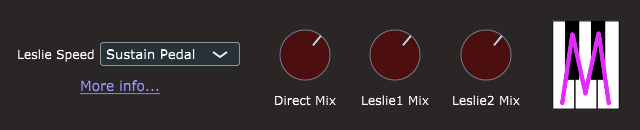
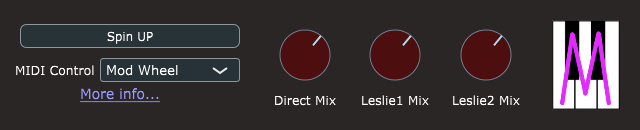
Update all documentation for version 1.1

diff --git a/docs/morgan-perc.md b/docs/morgan-perc.md
@@ -1,23 +1,38 @@
 # MOrgan Perc - MIDI Percussion processor
 
-**MOrgan Perc** (percussion) is an MIDI-effect plug-in, which takes MIDI input and produces output MIDI, but no audio output. Its purpose is to trigger any downstream instrument plug-in to produce notes in a manner reminiscent of the Hammond "percussion" circuit.
+**MOrgan Perc** (percussion) is an MIDI-effect plug-in, which takes MIDI input and produces output MIDI, but no audio output. Its purpose is to trigger any downstream instrument plug-in to produce notes in a manner reminiscent of the Hammond "key click" and "percussion" functions.
 
 ![](img/morgan-perc.png)
 
-The classic Hammond organs incorporated a "percussion" circuit, which was a type of one-shot oscillator triggered by pressing one or more keys following an all-keys-up condition. When triggered, the circuit produced an output voltage which began at its maximum value, and quickly decayed to zero. This voltage controlled the value of a percussive click sound generated for each key which was depressed. The resulting effect was that the percussion click was *polyphonic* (one click would be heard for each of several keys depressed roughly simultaneously), but *mono-triggered* (once triggered by the first key down, the output voltage would quickly decay to zero, so the click volume for subsequent keys would rapidly drop). Practically, this meant that the percussion clicks would only be heard for the first note or chord struck, and no further clicks would sound for as long as at least one key was held down.
+The first version of **MOrgan Perc** was specialized only for the "Hammond Perc" effect, but feedback from sound-designer [John Lehmkuhl](https://www.pluginguru.com/about/) suggested that the current three trigger-modes (described below) would yield a more useful and comprehensible effect.
 
-The **MOrgan Perc** plug-in uses MIDI Processing to roughly model this peculiar behavior. It has an internal one-shot oscillator using a wave-table filled with an exponential-decay curve (as shown by the green graph trace in the GUI). This oscillator is triggered only by the first MIDI key-down event following an all-keys-up condition, and its output rapidly decays from unity (1.0) to zero. MIDI key-down events received by the plug-in will be allowed through to the output only for the duration of the oscillator cycle (called *Gate Time*), and their MIDI velocity value will be scaled by its instantaneous output value.
+### Detailed functional description
 
-**MOrgan Perc** will most commonly be routed in front of a synthesizer plug-in configured to produce a short "pluck" or click-like sound which does not sustain. It is advisable to also use a MIDI filter plug-in to suppress MIDI CC#64 (sustain pedal) events to the synthesizer.
+The most basic effect of the **MOrgan Perc** plug-in is to trigger precisely-timed MIDI note-on/note-off event pairs at the output, in response to note-on events received at the input. This triggering can be done in three different ways, according to the setting of the pop-up menu, as follows:
+
+**Polyphonic** triggering simply means that *every* input note-on event gives rise to a note-on/note-off pair. The input note-on event is simply propagated to the output, so the note velocity is as played. This is useful for "key click" effects.
+
+With **Simple Mono** triggering, *only the first input note-on* triggers a timed output note. For as long as *at least one key is held down*, further note-triggering will be suppressed. This is a simplification of the classic Hammond-organ "percussion" response, where the goal was to emphasize only the first note of legato runs or arpeggiated chords.
+
+**Hammond Perc** triggering provides more realistic modeling of the the classic Hammond "percussion" effect. These organs featured a "percussion" circuit, which was a type of one-shot oscillator triggered by pressing one or more keys following an all-keys-up condition. When triggered, the circuit produced an output voltage which began at its maximum value, and quickly decayed to zero. This voltage controlled the value of a percussive click sound generated for each key which was depressed. The resulting effect was that the percussion click was *polyphonic* (one click would be heard for each of several keys depressed roughly simultaneously), but *mono-triggered* (once triggered by the first key down, the output voltage would quickly decay to zero, so the click volume for subsequent keys would rapidly drop). Practically, this meant that the percussion clicks would only be heard for the first note or chord struck, and no further clicks would sound for as long as at least one key was held down.
+
+**MOrgan Perc** models this very specific behavior. It has an internal one-shot oscillator using a wave-table filled with an exponential-decay curve (as shown by the green graph trace in the GUI). This oscillator is triggered only by the first MIDI key-down event following an all-keys-up condition, and its output rapidly decays from unity (1.0) to zero. MIDI key-down events received by the plug-in will be allowed through to the output only for the duration of the oscillator cycle (called the *Window*), and their MIDI velocity value will be scaled by its instantaneous output value.
+
+**MOrgan Perc** will most commonly be routed to filter the MIDI stream to a synthesizer plug-in configured to produce a short "pluck" or click-like sound, but as it produces output note-on/note-off sequences, even sustaining sounds can be used.
 
 ## Graphical User Interface
 
-The **MOrgan Perc** GUI is shown above. It consists of two *timing knobs* and a *graph display*.
+The **MOrgan Perc** GUI is shown above. It consists of a **Note Length** knob (which always controls how much later, in milliseconds, each generated note-off event occurs after the corresponding note-on), and a cluster of *triggering controls* in the middle:
+
+<img src="img/morgan-perc-2.png" style="zoom:150%;" />
+
+
+The triggering cluster consists of a consists of a pop-up menu to select one of the three *trigger modes* described above, and two *timing knobs* and a *graph display*, which are visible only in the "Hammond Perc" mode.
 
 #### Timing knobs
 
-- The **Gate Time** knob controls the internal one-shot oscillator's cycle time. It is calibrated in milliseconds, with a range of 50 to 250 msec, and a default value of 150 msec.
-- The **Decay Rate** knob controls the curvature of the oscillator's exponential decay. It is calibrated in arbitrary units from 0.05 (nearly linear) to 10.0 (very curved), with default value 2.5.
+- The **Window** knob controls the internal one-shot oscillator's cycle time. It is calibrated in milliseconds, with a range of 50 to 250 msec, and a default value of 150 msec.
+- The **Decay** knob controls the curvature of the oscillator's exponential decay. It is calibrated in arbitrary units from 0.05 (nearly linear) to 10.0 (very curved), with default value 2.5.
 
 The text which appears below each knob automatically changes from the knob's *label text* to the *current value of the corresponding parameter* while the mouse is positioned over the knob. You can *double-click the text* to enter a numeric value.
 
@@ -36,4 +51,4 @@ The graph displays a curve illustrating the current shape of the internal oscill
 
 ## Automation parameters
 
-The *MOrgan Perc* plug-in exposes *Gate Time* and *Decay Rate* parameters, so named.
+The **MOrgan Perc** plug-in exposes *Gate Time* and *Decay Rate* parameters, so named.

diff --git a/README.md b/README.md
@@ -18,8 +18,8 @@ The basic MOrgan plug-in collection comprises three plug-ins as follows:
 2. **MOrgan Cab** is an audio-effect plug-in, which processes incoming audio using two different *rotary speaker* models, reminiscent of the type of ["Leslie" speaker cabinet system](https://en.wikipedia.org/wiki/Leslie_speaker) often used with Hammond organs.
    - The first model adapts code from the [setBfree project](https://setbfree.org/) (see e.g. https://github.com/pantherb/setBfree), which was itself based on the paper "[Discrete Time Emulation of the Leslie Speaker](https://www.aes.org/e-lib/browse.cfm?elib=15120)" by Jorge Herrera, Craig Hanson, and Jonathan S. Abel, Presented at the 127th Convention of the Audio Engineering Society, 2009 October 9–12 New York NY, USA.
    - The second model uses code originally developed by Paul Kellett as part of the [mda-vst project](http://mda.smartelectronix.com/) (see also https://github.com/topics/mda-plugins). Although the MDA Leslie effect was not a true Leslie speaker emulation, it works nicely in conjunction with the more realistic *setBfree* version.
-   - The plug-in includes a simple mixer to set the levels of the direct (unprocessed) signal and of the two separate Leslie effects.
-3. **MOrgan Perc** is a MIDI-effect plug-in which can be routed before any instrument plug-in, allowing it to behave similarly to the characteristic "percussion" system of the classic Hammond organ models, which was unique in that it was both *polyphonic* and *mono-triggered*. The first MIDI note-on event after a no-keys-down condition passes through the plug-in, and triggers a timed *gate*. Subsequent note-on events will only pass through the plug-in if they follow the trigger within a preset *gate time*, and furthermore, their MIDI velocity values will be reduced according to an *exponential decay curve* which roughly models the response of the Hammond percussion circuit.
+   - The plug-in includes a simple mixer to set the levels of the direct (unprocessed) signal and of the two separate Leslie effects, and some options for MIDI control of Leslie rotation speed.
+3. **MOrgan Perc** is a MIDI-effect plug-in which can be routed before any instrument plug-in, to facilitate its use as a "click" or "percussion" sound, as in classic Hammond organ models. It serves to illustrate how useful MIDI-effects (which produce no sound of their own, only process MIDI) can be.
 
 ## Downloading and using the MOrgan plug-ins
 
@@ -41,7 +41,7 @@ The rotary-speaker emulation code from the [setBfree project](https://setbfree.o
 
 It is up to you to familiarize yourself with the legal ramifications of how you choose to use this code. Shane Dunne and Shane Dunne & Associates, Inc. provides this code *on an as-is basis, with no warranty of any kind*, and *will not be responsible for any legal consequences arising from your own use of the source code*.
 
-Note **VST is a registered trademark of Steinberg Media Technologies GmbH**.
+**VST is a registered trademark of Steinberg Media Technologies GmbH**.
 
 ## Dependencies
 

diff --git a/docs/morgan-cab.md b/docs/morgan-cab.md
@@ -12,7 +12,16 @@ This plug-in processes incoming audio using two different *rotary speaker* model
 
 ## Graphical User Interface
 
-The **MOrgan Cab** GUI is shown above. It consists of three *mix knobs* and a pop-up menu from which you may select how the simulated Leslie speed is switched from slow to fast.
+The **MOrgan Cab** GUI is shown above. It consists of a pair of *speed controls* on the left, to select how the simulated Leslie speed is switched from slow to fast, and a group of three *mix knobs* on the right, to adjust the balance among the direct and processed signals.
+
+#### Speed controls
+
+- The **Spin UP/DOWN** button toggles between the "slow" and "fast" rotation speeds.
+- The **MIDI Control** menu offers four choices for how input MIDI can set the speed:
+  - **None**: input MIDI is ignored.
+  - **Sustain Pedal**: pressing the MIDI sustain pedal (CC#64 value goes above 63) spins UP, releasing the pedal (CC#64 goes below 64) spins DOWN.
+  - **Mod Wheel**: as for sustain pedal, but CC#1 (mod wheel) controls the effect.
+  - **Sustain+MW**: speed responds to either/both of CC#1 and CC#64.
 
 #### Mix knobs
 
@@ -33,16 +42,11 @@ Each knob also has a designated *default value*, which for all three mix knobs i
 - All parameters are initialized to their default values when you first instantiate the plug-in.
 - Double-clicking any knob reverts the parameter to its default value.
 
-#### Leslie speed menu
-
-The two Leslie emulations are configured to switch between "slow" and "fast" rotation speed, with "slow" being the default. The *Leslie speed menu* offers two choices for how the speed is changed:
-
-1. **Mod Wheel**: the speed will switch to "fast" when a MIDI CC#1 (mod wheel) value greater than 63 is received, and return to "slow" when a value less than 64 is received. This is the default.
-2. **Sustain Pedal**: the speed will switch to "fast" when a MIDI CC#64 (sustain pedal) value greater than 63 is received, and return to "slow" when a value less than 64 is received.
-
 ## Automation parameters
 
-The **MOrgan Cab** plug-in exposes the three mix-level parameters for host automation. The parameter names are the same as the corresponding knob label text as follows:
+The **MOrgan Cab** plug-in exposes the leslie-speed and three mix-level parameters for host automation. The **Leslie Speed** parameter is a fractional value between 0.0 and 1.0, where anything less than 0.5 sets the speed to "slow" and anything higher sets it to "fast".
+
+The mix parameter names are the same as the corresponding knob label text as follows:
 
 - **Direct Mix** controls the amount of the unprocessed input ("direct") signal appears in the output.
 - **Leslie1 Mix** controls the amount from the output of the first Leslie model.

diff --git a/docs/index.md b/docs/index.md
@@ -17,7 +17,7 @@ The basic MOrgan plug-in collection comprises three plug-ins. Click on the plug-
 
 1. **[MOrgan Osc](morgan-osc.md)** is an instrument plug-in, which receives MIDI input and produces audio output, based on a simple tonewheel-organ oscillator model.
 2. **[MOrgan Cab](morgan-cab.md)** is an audio-effect plug-in, which processes incoming audio using two different *rotary speaker* models, reminiscent of the type of ["Leslie" speaker cabinet system](https://en.wikipedia.org/wiki/Leslie_speaker) often used with Hammond organs.
-3. **[MOrgan Perc](morgan-perc.md)** is a MIDI-effect plug-in which can be routed before any instrument plug-in, allowing it to behave similarly to the characteristic "percussion" system of the classic Hammond organ models, which was unique in that it was both *polyphonic* and *mono-triggered*.
+3. **[MOrgan Perc](morgan-perc.md)** s a MIDI-effect plug-in which can be routed before any instrument plug-in, to facilitate its use as a "click" or "percussion" sound, as in classic Hammond organ models.
 
 Other plug-ins may be added to the collection in future.
 

diff --git a/docs/morgan-osc.md b/docs/morgan-osc.md
@@ -31,9 +31,15 @@ Each knob also has a designated *default value*.
   - The nonzero attack and release times avoid unpleasant clicks in the output.
 - Double-clicking any knob reverts the parameter to its default value.
 
-#### Pedal sustain checkbox
+#### Master volume knob
+
+The *Volume* knob is calibrated from -48 dB (effectively zero volume) to +18 dB. This is primarily there to adjust the overall volume to compensate for different numbers of drawbars being used, but can also be used to fade the total sound-level down to silence when required.
+
+#### Pedal sustain and MW vibrato checkboxes
 
 As is conventional for organs, the synthesizer normally does not respond to MIDI sustain-pedal (CC#64), but if you check the *Pedal Sustain* box, notes will be held while the sustain pedal is down.
+
+Checking the *MW vibrato* box allows use of the mod wheel (CC#1) to add a light vibrato.
 
 ## Automation parameters
 
